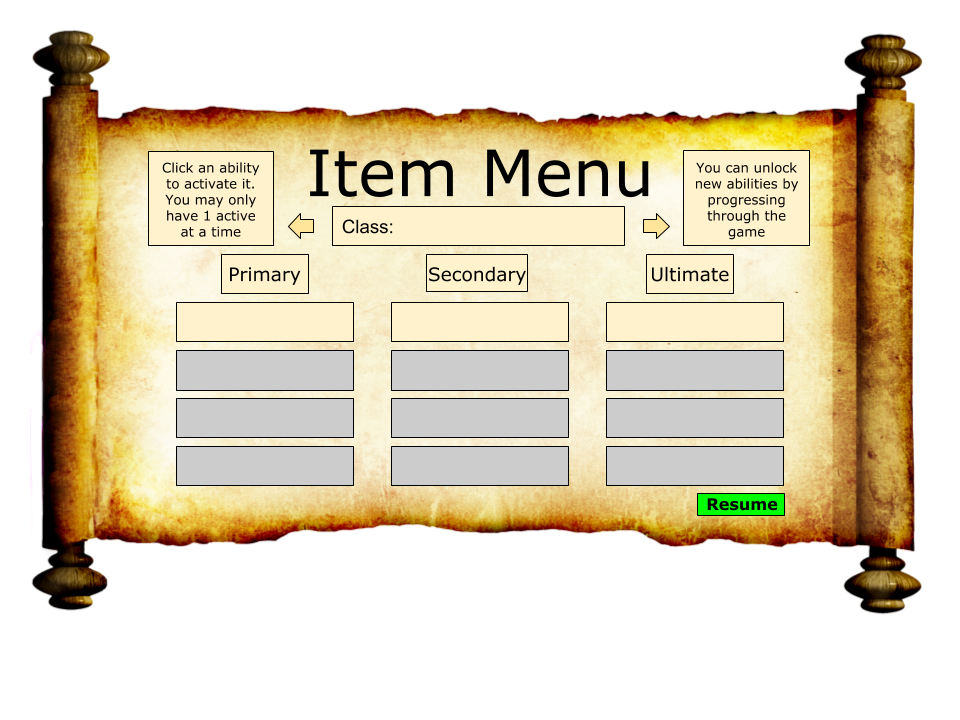
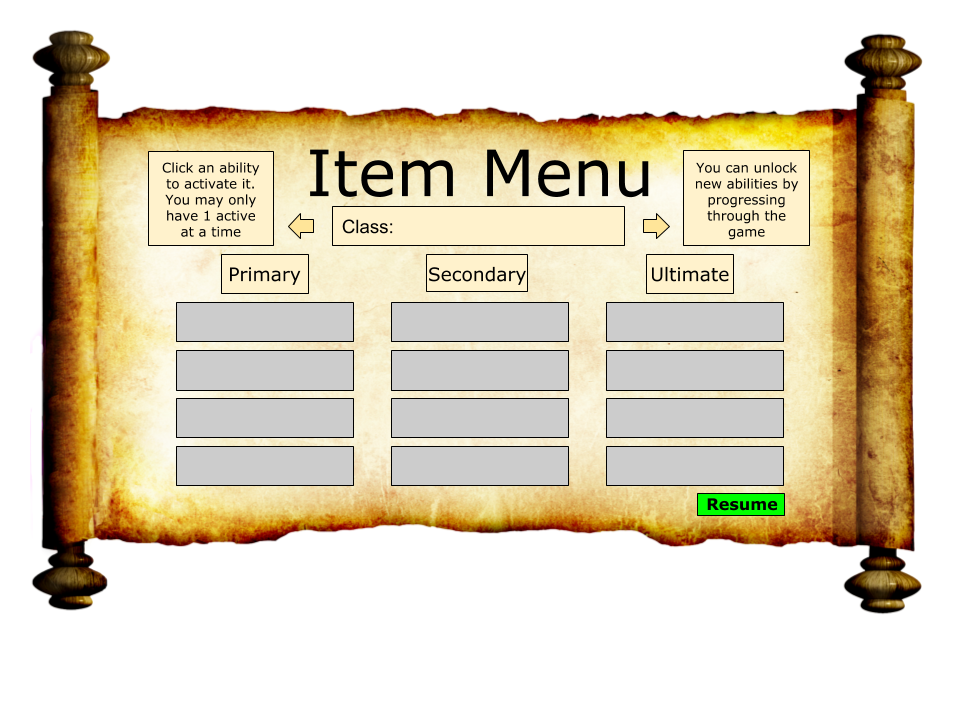
Added selectable powers, added Load button for Jack's code

Changed region(s): [[0.625, 0.3972, 0.8125, 0.4889], [0.4062, 0.3972, 0.5938, 0.4889], [0.1875, 0.3972, 0.375, 0.4889]]

diff --git a/src/UI/ItemMenu.java b/src/UI/ItemMenu.java
@@ -127,8 +127,17 @@ public class ItemMenu extends MouseAdapter {
         g.drawString("Energy Attack", 330, 330);
         g.drawString("Lightning Attack", 330, 378);
 
+        g.setColor(Color.blue);
+        if(game.player.canEnergyAttack) {
+            g.drawRect(326, 302, 177, 38);
+            g.drawRect(325, 301, 179, 40);
+        } else if(game.player.canLightningAttack) {
+            g.drawRect(326, 350, 177, 40);
+            g.drawRect(325, 351, 179, 38);
+        }
+
+        g.setColor(Color.green);
         if(overResume) {
-            g.setColor(Color.blue);
             //847, 493, 88, 23
             g.drawRect(847, 493, 87, 22);
             g.drawRect(846, 494, 89, 22);
@@ -137,23 +146,23 @@ public class ItemMenu extends MouseAdapter {
         } else if (overPrevClass) {
 
         } else if (c1r1) {
-            g.drawRect(326, 302, 177, 39);
-            g.drawRect(325, 301, 179, 39);
+            g.drawRect(326, 302, 177, 38);
+            g.drawRect(325, 301, 179, 40);
         }else if (c2r1) {
-            g.drawRect(541, 302, 177, 39);
-            g.drawRect(540, 301, 179, 39);
+            g.drawRect(541, 302, 177, 38);
+            g.drawRect(540, 301, 179, 40);
         } else if (c3r1) {
-            g.drawRect(756, 302, 177, 39);
-            g.drawRect(755, 301, 179, 39);
+            g.drawRect(756, 302, 177, 38);
+            g.drawRect(755, 301, 179, 40);
         } else if (c1r2) {
-            g.drawRect(326, 350, 177, 39);
-            g.drawRect(325, 351, 179, 39);
+            g.drawRect(326, 350, 177, 40);
+            g.drawRect(325, 351, 179, 38);
         } else if (c2r2) {
-            g.drawRect(541, 350, 177, 40);
-            g.drawRect(540, 349, 179, 40);
+            g.drawRect(541, 350, 177, 39);
+            g.drawRect(540, 349, 179, 41);
         }  else if (c3r2) {
-            g.drawRect(756, 350, 177, 40);
-            g.drawRect(755, 349, 179, 40);
+            g.drawRect(756, 350, 177, 39);
+            g.drawRect(755, 349, 179, 41);
         } else if (c1r3) {
             g.drawRect(326, 398, 177, 39);
             g.drawRect(325, 397, 179, 39);

diff --git a/src/Main/Game.java b/src/Main/Game.java
@@ -17,7 +17,6 @@ import java.awt.image.BufferStrategy;
 // Fix colliding with sides of platforms
 // Make damage report above where player/mobs take damage
 // fix alert disappearing after 2 seconds
-// Cool swappy thing in itemMenu
 
 public class Game extends Canvas implements Runnable {
     public static final int WIDTH = 1280;
